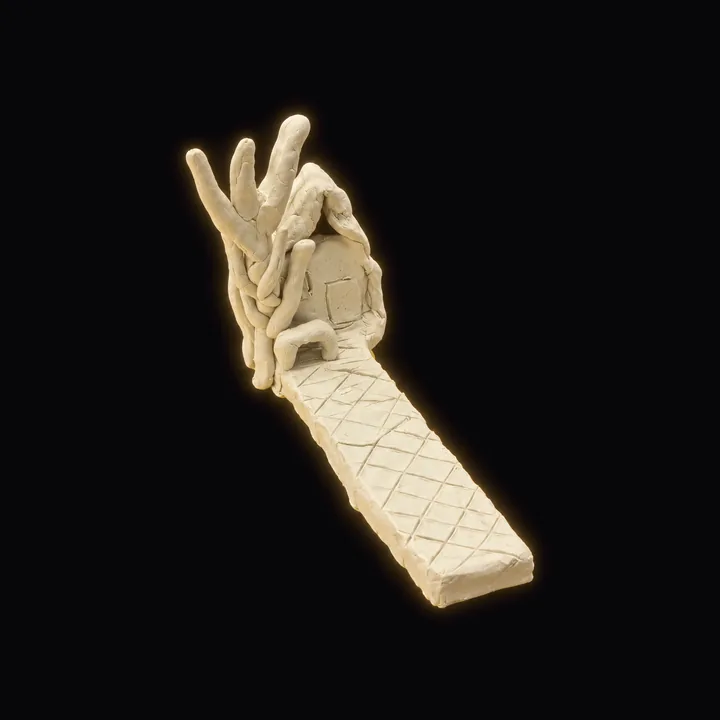
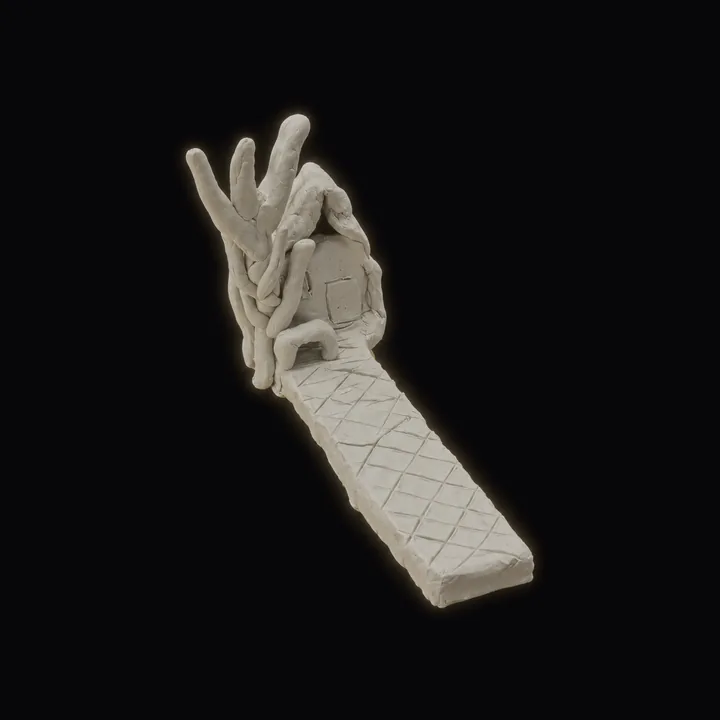
Tone carousel objects 14 and 21 down to match the rest
Both new renders were brighter and more saturated than the set; brightness
x0.8 and saturation x0.48 bring them into the same range.

Changed region(s): [[0.2444, 0.1528, 0.7639, 0.8556]]

diff --git a/site/index.html b/site/index.html
@@ -193,14 +193,14 @@
       <div class="orbit-item"><img src="img/models/11.webp" alt="Об'єкт пам'яті 11" loading="lazy" decoding="async" draggable="false" /></div>
       <div class="orbit-item"><img src="img/models/12.webp" alt="Об'єкт пам'яті 12" loading="lazy" decoding="async" draggable="false" /></div>
       <div class="orbit-item"><img src="img/models/13.webp?v=2" alt="Об'єкт пам'яті 13" loading="lazy" decoding="async" draggable="false" /></div>
-      <div class="orbit-item"><img src="img/models/14.webp?v=2" alt="Об'єкт пам'яті 14" loading="lazy" decoding="async" draggable="false" /></div>
+      <div class="orbit-item"><img src="img/models/14.webp?v=3" alt="Об'єкт пам'яті 14" loading="lazy" decoding="async" draggable="false" /></div>
       <div class="orbit-item"><img src="img/models/15.webp" alt="Об'єкт пам'яті 15" loading="lazy" decoding="async" draggable="false" /></div>
       <div class="orbit-item"><img src="img/models/16.webp" alt="Об'єкт пам'яті 16" loading="lazy" decoding="async" draggable="false" /></div>
       <div class="orbit-item"><img src="img/models/17.webp" alt="Об'єкт пам'яті 17" loading="lazy" decoding="async" draggable="false" /></div>
       <div class="orbit-item"><img src="img/models/18.webp" alt="Об'єкт пам'яті 18" loading="lazy" decoding="async" draggable="false" /></div>
       <div class="orbit-item"><img src="img/models/19.webp" alt="Об'єкт пам'яті 19" loading="lazy" decoding="async" draggable="false" /></div>
       <div class="orbit-item"><img src="img/models/20.webp" alt="Об'єкт пам'яті 20" loading="lazy" decoding="async" draggable="false" /></div>
-      <div class="orbit-item"><img src="img/models/21.webp" alt="Об'єкт пам'яті 21" loading="lazy" decoding="async" draggable="false" /></div>
+      <div class="orbit-item"><img src="img/models/21.webp?v=2" alt="Об'єкт пам'яті 21" loading="lazy" decoding="async" draggable="false" /></div>
     </div>
     <div class="orbit-dots" role="group" aria-label="Об'єкти пам'яті: 21"></div>
 
